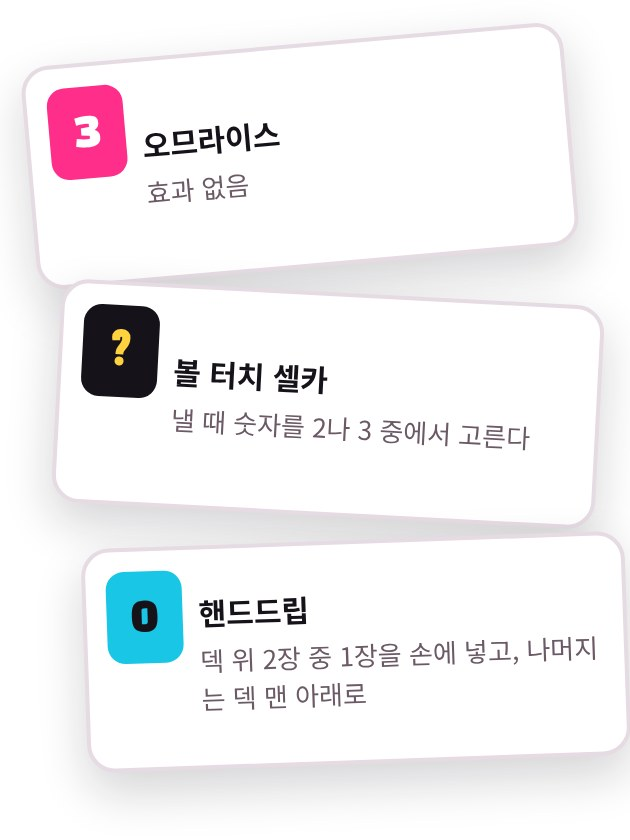
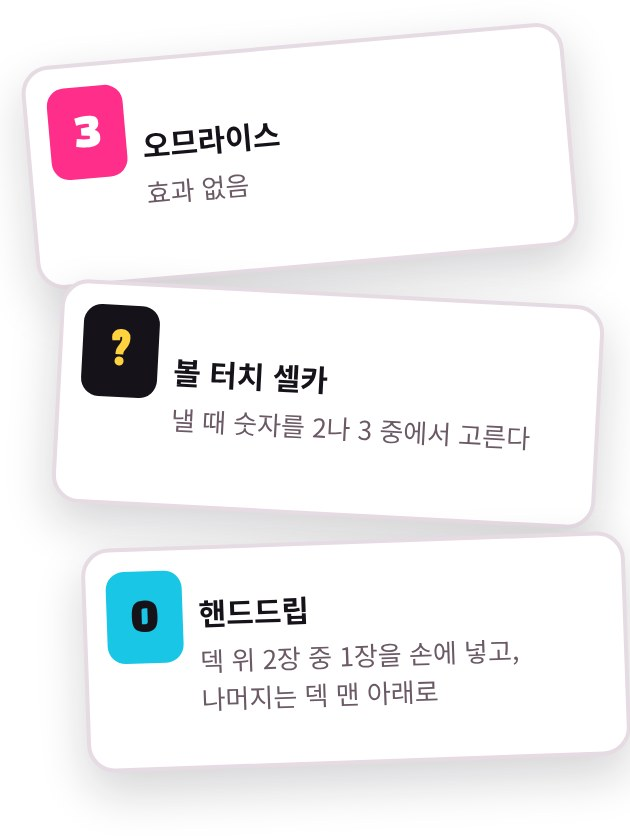
떡상→조회수 폭발, 공용 카드풀에 바닐라 −2·−1·0·4·6 추가(덱 미포함)
Claude-Session: https://claude.ai/code/session_01NPydC4cgnycGE27ajFik3f

Changed region(s): [[0.3016, 0.8048, 0.6937, 0.8667], [0.8444, 0.7429, 0.9349, 0.8048]]

diff --git a/index.html b/index.html
@@ -512,7 +512,7 @@ button:focus-visible{outline:3px solid var(--c);outline-offset:2px}
         <span class="gk">저스트할래, 버스트할래?</span>
         <h2 class="gt">덱 구성</h2>
         <div class="gpair plus">
-          <figure><span class="gtag">공용 카드</span><div class="gp"><img src="img/g_deck_common.jpg" alt="공용 카드 떡상, 특종, 수정됨"><b class="gchip">12</b></div><figcaption>모든 캐스트가 똑같이 쓰는<br><mark>공용 카드 12장</mark></figcaption></figure>
+          <figure><span class="gtag">공용 카드</span><div class="gp"><img src="img/g_deck_common.jpg" alt="공용 카드 조회수 폭발, 특종, 수정됨"><b class="gchip">12</b></div><figcaption>모든 캐스트가 똑같이 쓰는<br><mark>공용 카드 12장</mark></figcaption></figure>
           <figure><span class="gtag">하루 전용</span><div class="gp"><img src="img/g_deck_cast.jpg" alt="하루 전용 카드 오므라이스, 볼 터치 셀카, 핸드드립"><b class="gchip">8</b></div><figcaption>캐스트마다 다른<br><mark>전용 카드 8장</mark></figcaption></figure>
         </div>
         <p class="gnote">합쳐서 <b>20장</b>. 판마다 새로 섞어 <b>5장</b> 들고 시작하고, 내 턴이 끝나면 <b>1장</b> 뽑습니다</p>
@@ -587,7 +587,7 @@ const SHARED=[
  C('shot','오늘의 출근샷',1,'효과 없음',{photo:1}),
  C('selfie','셀카 업로드',2,'효과 없음',{photo:1}),
  C('menu','신메뉴 홍보',3,'효과 없음',{photo:1}),
- C('boom','떡상',5,'효과 없음'),
+ C('boom','조회수 폭발',5,'효과 없음'),
  C('edit','수정됨',1,'낼 때 숫자를 0·1·2 중에서 고른다',{choice:[0,1,2]}),
  C('excuse','해명문',-3,'효과 없음'),
  C('trend','실검 1위',2,'게이지가 20 이상이면 숫자가 4'),
@@ -596,6 +596,14 @@ const SHARED=[
  C('snipe','저격글',2,'상대는 다음 턴에 3 이상인 카드를 못 낸다'),
  C('repost','리포스트',1,'이번 턴에 1장 더 낸다',{extra:1}),
  C('scoop','특종!',31,'저스트 불가. 목표에 딱 맞으면 버스트',{nofinish:1}),
+];
+// ---------- 카드풀 (지금 덱에는 안 들어감, 나중에 덱빌딩에서 사용) ----------
+const POOL_SHARED=[
+ C('unfollow','언팔로우',-2,'효과 없음'),
+ C('unlike','좋아요 취소',-1,'효과 없음'),
+ C('lurk','눈팅',0,'효과 없음'),
+ C('challenge','해시태그 챌린지',4,'효과 없음'),
+ C('algo','알고리즘 탑승',6,'효과 없음'),
 ];
 const IRI=[
  C('burst','셀카 연사',1,'이번 턴에 1장 더 낸다',{photo:1,extra:1}),
